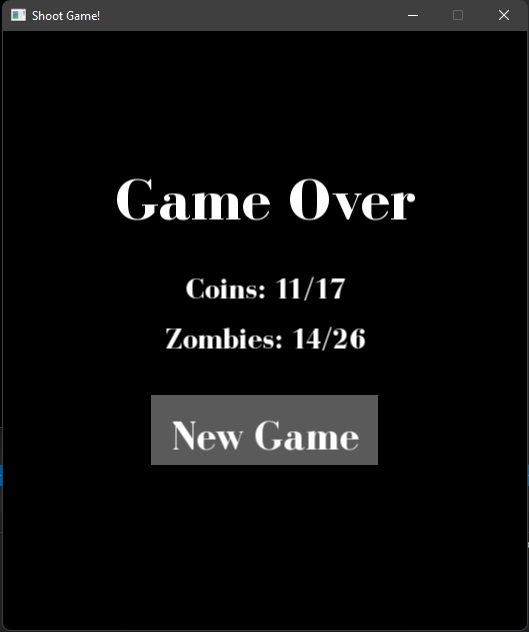
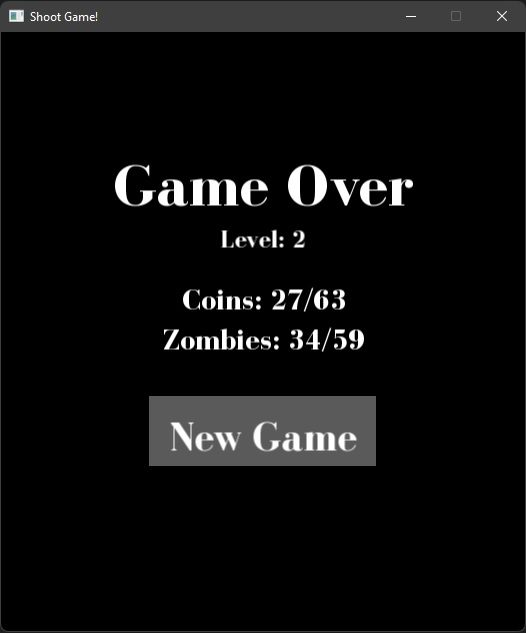
fix coins countering

diff --git a/Game/Game/Panel.cpp b/Game/Game/Panel.cpp
@@ -69,8 +69,12 @@ EndPanel::EndPanel()
 	this->newGameBtn.setFontSize(40);
 	this->newGameBtn.setString("New Game");
 
+	this->levelSummaryText.setFont(this->font);
+	this->levelSummaryText.setFontSize(25);
+	this->levelSummaryText.setString("Level: 1");
+
 	this->itemSummaryText.setFont(this->font);
-	this->itemSummaryText.setString("Items: 0/0");
+	this->itemSummaryText.setString("Coins: 0/0");
 
 	this->zombieSummaryText.setFont(this->font);
 	this->zombieSummaryText.setString("Zombies: 0/0");
@@ -82,12 +86,17 @@ bool EndPanel::newGameBtnClicked(Position& mPosition, bool mClicked)
 	return mClicked && this->newGameBtn.isMouseOver(mPosition);
 }
 
-void EndPanel::setInfo(int collectedCoins, int totalCoins, int killedZombies, int totalZombies)
+void EndPanel::setInfo(int collectedCoins, int totalCoins, int killedZombies, int totalZombies, int reachedLevel)
 {
+	std::stringstream levelSummary;
+	levelSummary << "Level: " << reachedLevel;
+	this->levelSummaryText.setString(levelSummary.str());
+	this->levelSummaryText.setPosition({ this->p.x, this->p.y - 100 });
+
 	std::stringstream itemSummary;
 	itemSummary << "Coins: " << collectedCoins << "/" << totalCoins;
 	this->itemSummaryText.setString(itemSummary.str());
-	this->itemSummaryText.setPosition({ this->p.x, this->p.y - 50 });
+	this->itemSummaryText.setPosition({ this->p.x, this->p.y - 40 });
 
 	std::stringstream zombiesSummary;
 	zombiesSummary << "Zombies: " << killedZombies << "/" << totalZombies;
@@ -104,7 +113,7 @@ void EndPanel::setup(Position pos, Float2Vector panelSize)
 
 	this->p = { cx, cy };
 
-	this->gameOverText.setPosition({ cx, cy - 150 });
+	this->gameOverText.setPosition({ cx, cy - 165 });
 	this->newGameBtn.setPosition({ cx, cy + 100 });
 }
 
@@ -113,6 +122,7 @@ void EndPanel::drawAt(sf::RenderWindow* window)
 	Panel::drawAt(window);
 
 	this->gameOverText.drawAt(window);
+	this->levelSummaryText.drawAt(window);
 	this->itemSummaryText.drawAt(window);
 	this->zombieSummaryText.drawAt(window);
 	this->newGameBtn.drawAt(window);

diff --git a/Game/Game/Game.cpp b/Game/Game/Game.cpp
@@ -117,6 +117,7 @@ void Game::initRunningGame()
 	this->player.init();
 	this->currentLevel = 0;
 	this->zombiesSpawned = 0;
+	this->coinsCreated = 0;
 
 	this->setupGameLevel(this->levels.at(this->currentLevel));
 }
@@ -178,6 +179,7 @@ void Game::spawnItem()
 
 		this->itemSpawnClock.restart();
 		this->map.createCoin();
+		++this->coinsCreated;
 	}
 }
 
@@ -249,9 +251,10 @@ void Game::observePlayerLives()
 
 		this->endPanel.setInfo(
 			this->player.getTotalCoins(),
-			this->map.getTotalCoins(),
+			this->coinsCreated,
 			this->player.getKilledZombies(),
-			this->zombiesSpawned
+			this->zombiesSpawned,
+			this->currentLevel + 1
 		);
 	}
 }

diff --git a/Game/Game/Map.cpp b/Game/Game/Map.cpp
@@ -134,7 +134,6 @@ void Map::setup(const MapSetting& mapSetting)
 	}
 
 	this->setupRoomNeighbors(mapSetting.horizontalDoorMask, mapSetting.verticalDoorMask);
-	this->coinsCreated = 0;
 }
 
 void Map::update()
@@ -151,8 +150,6 @@ void Map::createCoin()
 {
 	auto r = this->getRandomRoom();
 	r->createCoin();
-
-	++this->coinsCreated;
 }
 
 Room* Map::getRoom(int id)
@@ -185,11 +182,6 @@ Room* Map::getRandomRoom(const std::vector<Room*>& exclude)
 	int randomPos = rand() % temp.size();
 
 	return temp[randomPos];
-}
-
-int Map::getTotalCoins() const
-{
-	return this->coinsCreated;
 }
 
 void Map::drawAt(sf::RenderWindow* window, Room* playerRoom)

diff --git a/Game/Game/Panel.hpp b/Game/Game/Panel.hpp
@@ -49,7 +49,7 @@ public:
 
 	bool newGameBtnClicked(Position& mPosition, bool mClicked);
 
-	void setInfo(int collecteItems, int totalItems, int killedZombies, int totalZombies);
+	void setInfo(int collecteItems, int totalItems, int killedZombies, int totalZombies, int reachedLevel);
 	void setup(Position pos, Float2Vector panelSize);
 	void drawAt(sf::RenderWindow* window);
 	
@@ -59,6 +59,7 @@ private:
 	Float2Vector size;
 	Button newGameBtn;
 	TextField gameOverText;
+	TextField levelSummaryText;
 	TextField itemSummaryText;
 	TextField zombieSummaryText;
 };

diff --git a/Game/Game/Map.hpp b/Game/Game/Map.hpp
@@ -25,7 +25,6 @@ public:
 	Room* getRandomRoom();
 	Room* getRandomRoom(const std::vector<Room*>& exclude);
 
-	int getTotalCoins() const;
 	void createCoin();
 
 	void setup(const MapSetting & mapSetting);
@@ -39,8 +38,6 @@ private:
 	int roomNum = NUM_OF_ROOM_PER_LINE * NUM_OF_ROOM_PER_LINE;
 
 	std::array<sf::RectangleShape, (NUM_OF_ROOM_PER_LINE * 2) + 2> walls;
-
-	int coinsCreated = 0;
 
 	void initWalls();
 	sf::RectangleShape createWall(bool isHorizontal, Position p);

diff --git a/Game/Game/Game.hpp b/Game/Game/Game.hpp
@@ -57,6 +57,7 @@ private:
 	sf::Clock itemSpawnClock;
 
 	int zombiesSpawned = 0;
+	int coinsCreated = 0;
 	int currentLevel = 0;
 	int maxLevel;
 

diff --git a/README.md b/README.md
@@ -115,7 +115,7 @@ Hra končí, pokud hráč přijde o všechny životy (3).
 
 Stav: **END**
 
-Zobrazí se nápis *Game Over* a pod ním informace o počtu sebraných mincí a zlikvidovaných nepřátel. Pod informacemi se zobrazí také tlačítko s nápisem *New Game*, které po kliknutí zahájí novou hru.
+Zobrazí se nápis *Game Over* a pod ním informace o dosaženém levelu, počtu sebraných mincí a zlikvidovaných nepřátel. Pod informacemi se zobrazí také tlačítko s nápisem *New Game*, které po kliknutí zahájí novou hru.
 
 ![endGamePanel](docs_images/endGame.jpg)
 
